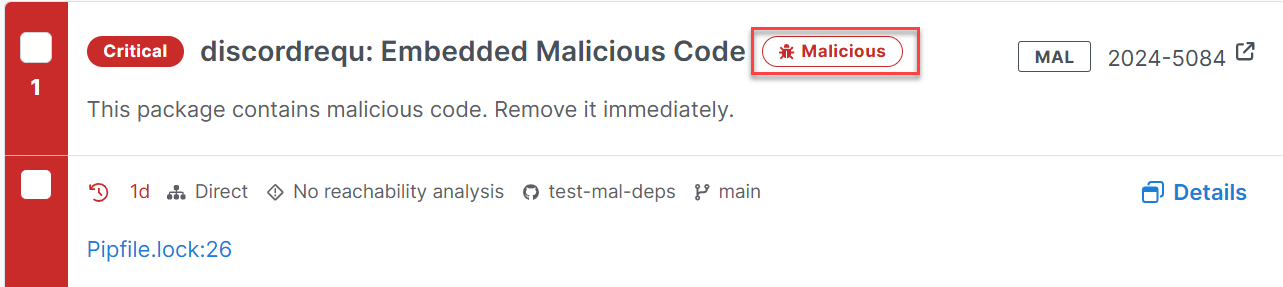
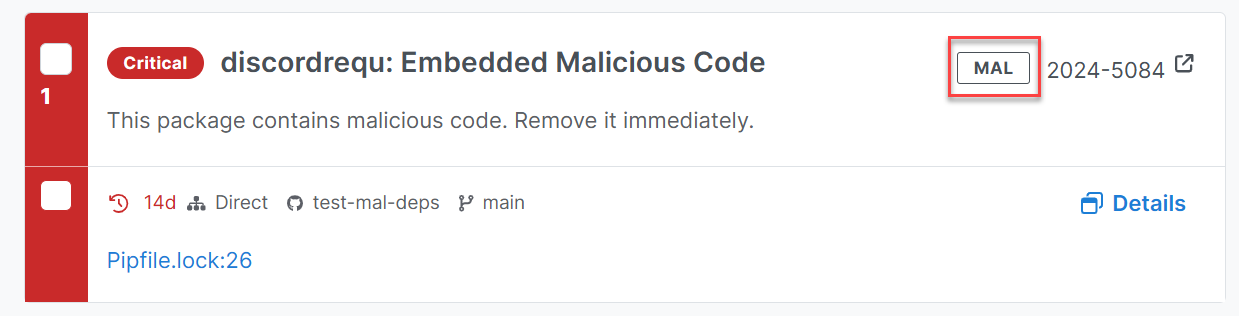
change badge

Changed region(s): [[0.0, 0.0, 1.0, 1.0], [0.8588, 0.6132, 0.9814, 0.7247]]

diff --git a/docs/semgrep-supply-chain/malicious-dependencies.md b/docs/semgrep-supply-chain/malicious-dependencies.md
@@ -55,7 +55,7 @@ If you have set up your Supply Chain policies to block with this condition, mali
 
 ## View malicious dependencies
 
-Malicious dependencies appear in [**Supply Chain > Vulnerabilities**](https://semgrep.dev/orgs/-/supply-chain/vulnerabilities?primary=true&tab=open&last_opened=All+time), alongside other Supply Chain findings. They are denoted by the **Malicious** badge.
+Malicious dependencies appear in [**Supply Chain > Vulnerabilities**](https://semgrep.dev/orgs/-/supply-chain/vulnerabilities?primary=true&tab=open&last_opened=All+time), alongside other Supply Chain findings. They are denoted by the **MAL** badge.
 
 ![Malicious dependency finding with badge](/img/findings-maldeps.png)
 _**Figure**. A malicious dependency finding._
